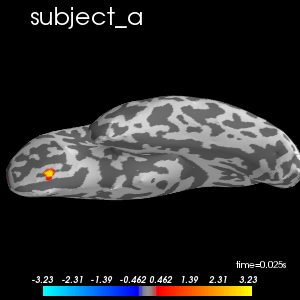
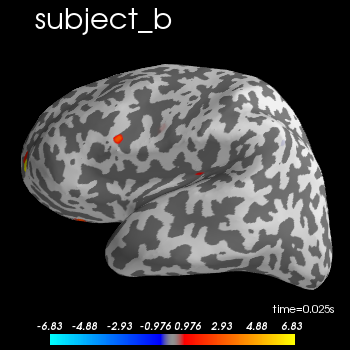
update doc + improve cov

diff --git a/docs/auto_examples/plot_group_lasso.py b/docs/auto_examples/plot_group_lasso.py
@@ -130,13 +130,13 @@ stcs, log = compute_group_inverse(gains, M, group_info,
 
 t = 0.025
 t_idx = stcs[0].time_as_index(t)
-for stc, subject in zip(stcs, subjects):
-    m = abs(stc.data[:group_info["n_sources"][0], t_idx]).max()
-    surfer_kwargs = dict(
-        clim=dict(kind='value', pos_lims=[0., 0.1 * m, m]),
-        hemi='lh', subjects_dir=subjects_dir,
-        initial_time=t, time_unit='s', size=(300, 300),
-        smoothing_steps=5)
-    for view in ["lateral", "ventral"]:
+for view in ["lateral", "medial"]:
+    for stc, subject in zip(stcs, subjects):
+        m = abs(stc.data[:group_info["n_sources"][0], t_idx]).max()
+        surfer_kwargs = dict(
+            clim=dict(kind='value', pos_lims=[0., 0.1 * m, m]),
+            hemi='lh', subjects_dir=subjects_dir,
+            initial_time=t, time_unit='s', size=(350, 350),
+            smoothing_steps=5)
         brain = stc.plot(**surfer_kwargs, views=view)
         brain.add_text(0.1, 0.9, subject, "title")

diff --git a/docs/auto_examples/plot_group_lasso.rst b/docs/auto_examples/plot_group_lasso.rst
@@ -353,14 +353,14 @@ Solve the inverse problems
 
     t = 0.025
     t_idx = stcs[0].time_as_index(t)
-    for stc, subject in zip(stcs, subjects):
-        m = abs(stc.data[:group_info["n_sources"][0], t_idx]).max()
-        surfer_kwargs = dict(
-            clim=dict(kind='value', pos_lims=[0., 0.1 * m, m]),
-            hemi='lh', subjects_dir=subjects_dir,
-            initial_time=t, time_unit='s', size=(300, 300),
-            smoothing_steps=5)
-        for view in ["lateral", "ventral"]:
+    for view in ["lateral", "medial"]:
+        for stc, subject in zip(stcs, subjects):
+            m = abs(stc.data[:group_info["n_sources"][0], t_idx]).max()
+            surfer_kwargs = dict(
+                clim=dict(kind='value', pos_lims=[0., 0.1 * m, m]),
+                hemi='lh', subjects_dir=subjects_dir,
+                initial_time=t, time_unit='s', size=(350, 350),
+                smoothing_steps=5)
             brain = stc.plot(**surfer_kwargs, views=view)
             brain.add_text(0.1, 0.9, subject, "title")
 
@@ -395,7 +395,7 @@ Solve the inverse problems
 
 .. rst-class:: sphx-glr-timing
 
-   **Total running time of the script:** ( 3 minutes  5.535 seconds)
+   **Total running time of the script:** ( 3 minutes  7.395 seconds)
 
 
 .. _sphx_glr_download_auto_examples_plot_group_lasso.py:

diff --git a/docs/auto_examples/sg_execution_times.rst b/docs/auto_examples/sg_execution_times.rst
@@ -5,6 +5,6 @@
 
 Computation times
 =================
-**03:05.535** total execution time for **auto_examples** files:
+**03:07.395** total execution time for **auto_examples** files:
 
-- **03:05.535**: :ref:`sphx_glr_auto_examples_plot_group_lasso.py` (``plot_group_lasso.py``)
+- **03:07.395**: :ref:`sphx_glr_auto_examples_plot_group_lasso.py` (``plot_group_lasso.py``)
